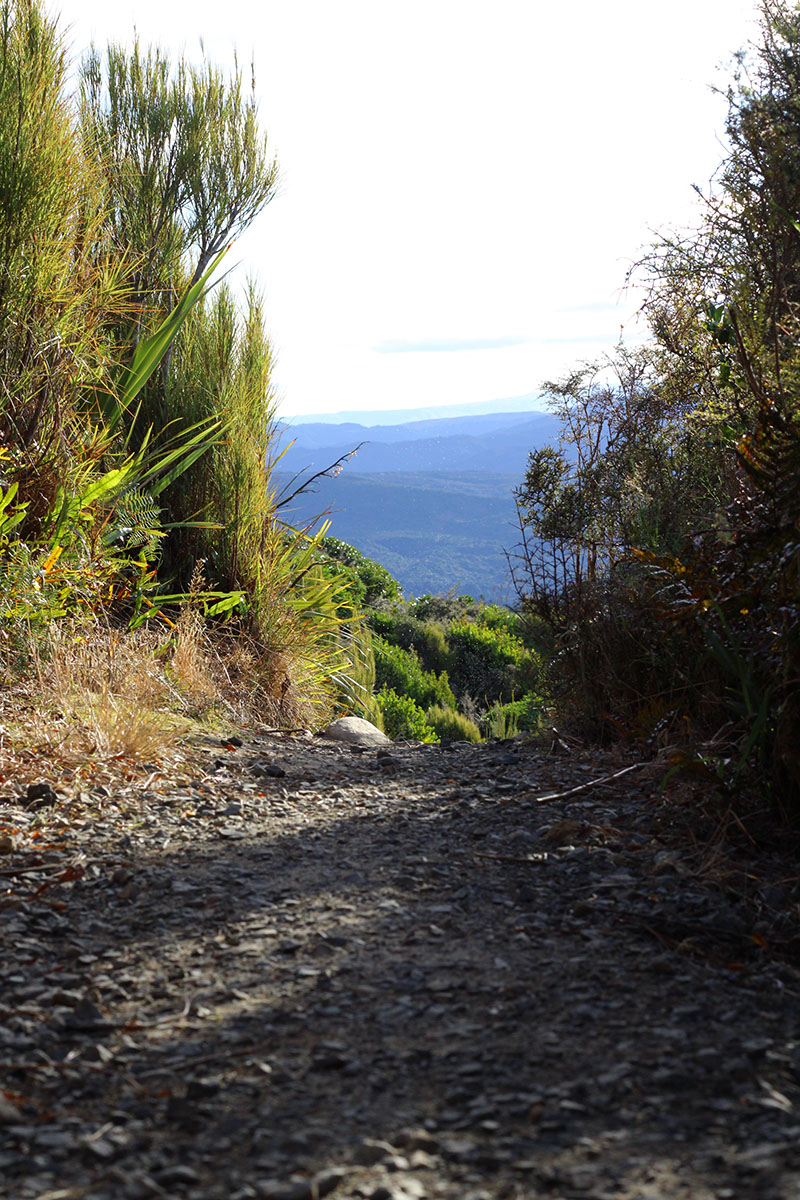
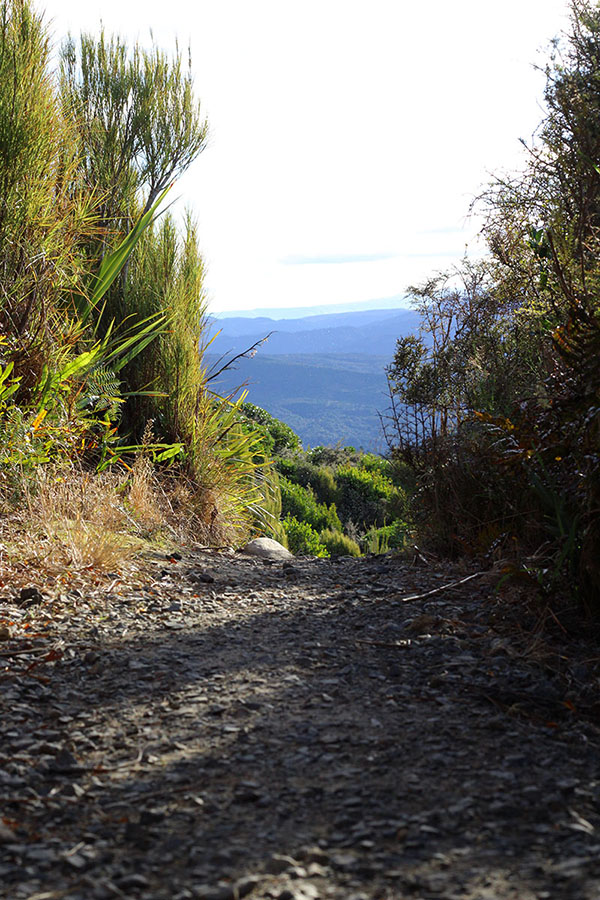
Contact

diff --git a/Index.html b/Index.html
@@ -209,8 +209,8 @@
               <div class="profile-section">
                 <img src="img/who-i-am.jpeg" alt="Profile" class="profile-image">
                 <div class="profile-text">
-                  <p>I'm a passionate automotive enthusiast with over 15 years of experience in classic car restoration and modern vehicle modification. My journey began in my father's garage, where I learned the fundamentals of mechanical craftsmanship.</p>
-                  <p>Every vehicle that enters The Garage receives meticulous attention to detail, whether it's a complete restoration project or a simple maintenance service. I believe in preserving automotive history while embracing modern innovations.</p>
+                  <p>I'm a passionate...</p>
+                  <p>The Garage receives meticulous attention to detail.</p>
                 </div>
               </div>
             </div>
@@ -219,13 +219,13 @@
             <div class="about-section section-2">
               <h2>My Purpose</h2>
               <div class="purpose-content">
-                <img src="https://images.pexels.com/photos/162553/keys-workshop-mechanic-tools-162553.jpeg?auto=compress&cs=tinysrgb&w=300" alt="Tools" class="scattered-image img-1">
-                <img src="https://images.pexels.com/photos/279949/pexels-photo-279949.jpeg?auto=compress&cs=tinysrgb&w=300" alt="Engine" class="scattered-image img-2">
-                <img src="https://images.pexels.com/photos/13065/pexels-photo-13065.jpeg?auto=compress&cs=tinysrgb&w=300" alt="Garage" class="scattered-image img-3">
+                <img src="" alt="" class="scattered-image img-1">
+                <img src="" alt="" class="scattered-image img-2">
+                <img src="" alt="" class="scattered-image img-3">
                 
                 <div class="purpose-text">
-                  <p>My mission is to bridge the gap between automotive heritage and contemporary innovation. Each project is approached with respect for the vehicle's original design while incorporating modern safety and performance enhancements where appropriate.</p>
-                  <p>The Garage serves as a sanctuary for automotive craftsmanship, where traditional techniques meet cutting-edge technology. I'm committed to educating the next generation of mechanics and preserving the art of hands-on automotive work.</p>
+                  <p>My mission is to...</p>
+                  <p>The Garage serves as a...</p>
                 </div>
               </div>
             </div>
@@ -234,7 +234,7 @@
             <div class="about-section section-3">
               <h2>Where I'm Headed</h2>
               <div class="future-content">
-                <p class="glitch-text">The future of The Garage lies in expanding our capabilities while maintaining our commitment to quality craftsmanship. We're investing in sustainable restoration practices and exploring electric vehicle conversions for classic cars, ensuring that automotive passion remains relevant for generations to come.</p>
+                <p class="glitch-text">The future of The Garage lies in...</p>
               </div>
             </div>
           </div>
@@ -249,26 +249,22 @@
             <img src="img/core.jpg" alt="Garage atmosphere" class="contact-thumb">
           </div>
           <div class="contact-form-container">
-            <form class="contact-form">
-              <h3>Get In Touch</h3>
-              <div class="form-group">
-                <label for="name">Name</label>
-                <input type="text" id="name" name="name" required>
-              </div>
-              <div class="form-group">
-                <label for="email">Email</label>
-                <input type="email" id="email" name="email" required>
-              </div>
-              <div class="form-group">
-                <label for="subject">Subject</label>
-                <input type="text" id="subject" name="subject" required>
-              </div>
-              <div class="form-group">
-                <label for="message">Message</label>
-                <textarea id="message" name="message" rows="5" required></textarea>
-              </div>
-              <button type="submit" class="submit-btn">Send Message</button>
+
+            <form name="contact" method="POST" data-netlify="true">
+              <p>
+                <label>Name: <input type="text" name="name" /></label>
+              </p>
+              <p>
+                <label>Email: <input type="email" name="email" /></label>
+              </p>
+              <p>
+                <label>Message: <textarea name="message"></textarea></label>
+              </p>
+              <p>
+                <button type="submit">Send</button>
+              </p>
             </form>
+
           </div>
         </div>
       </section>
